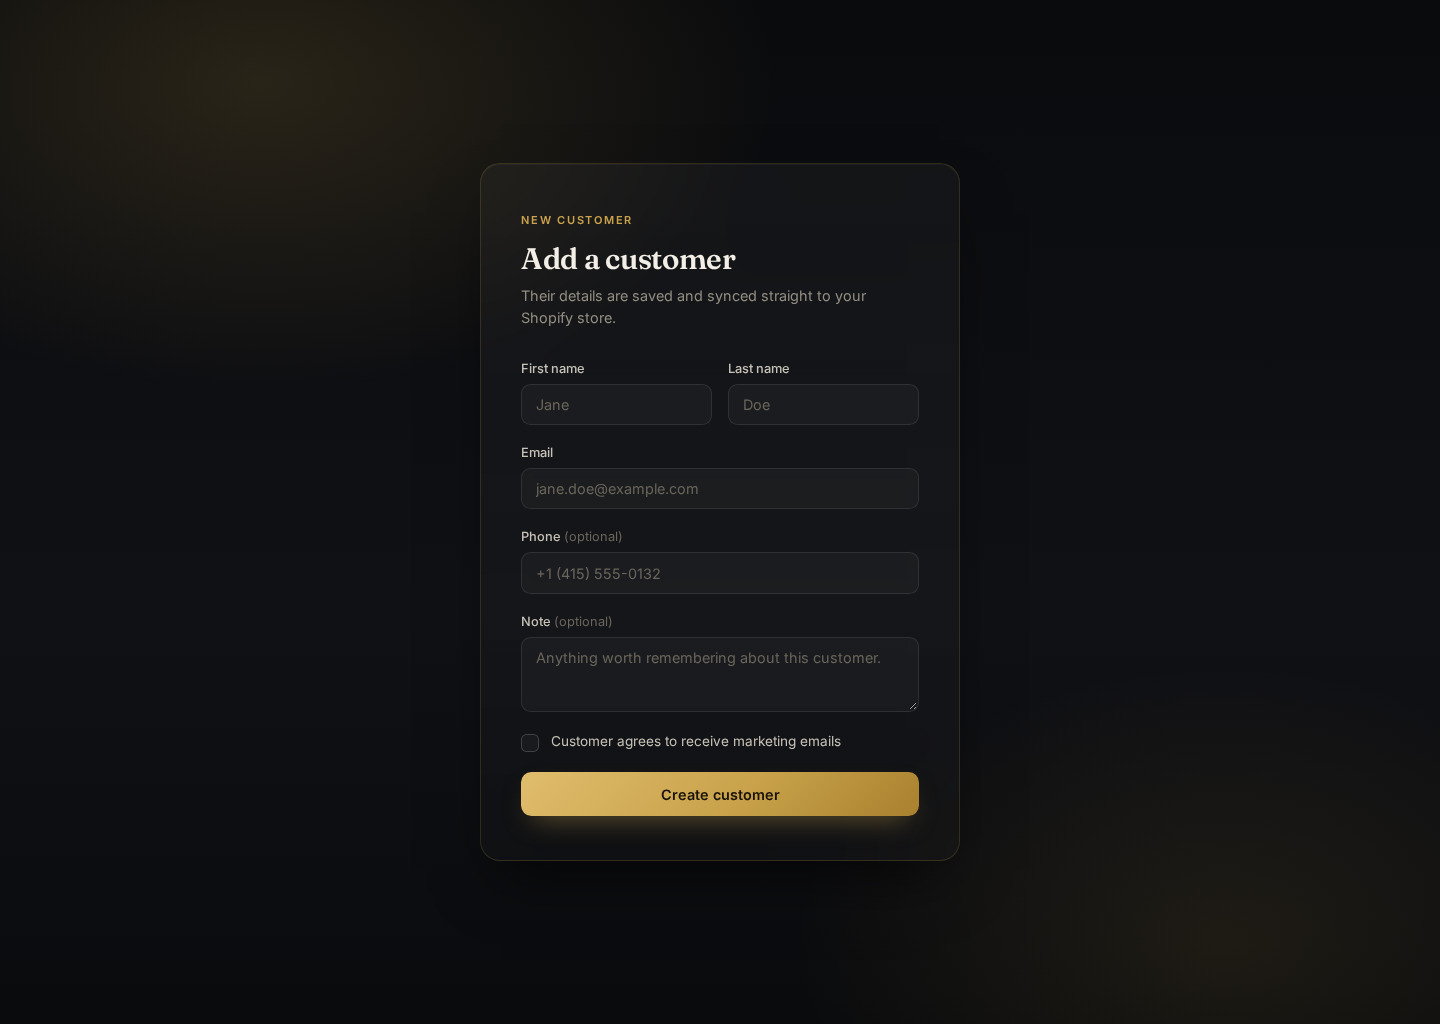
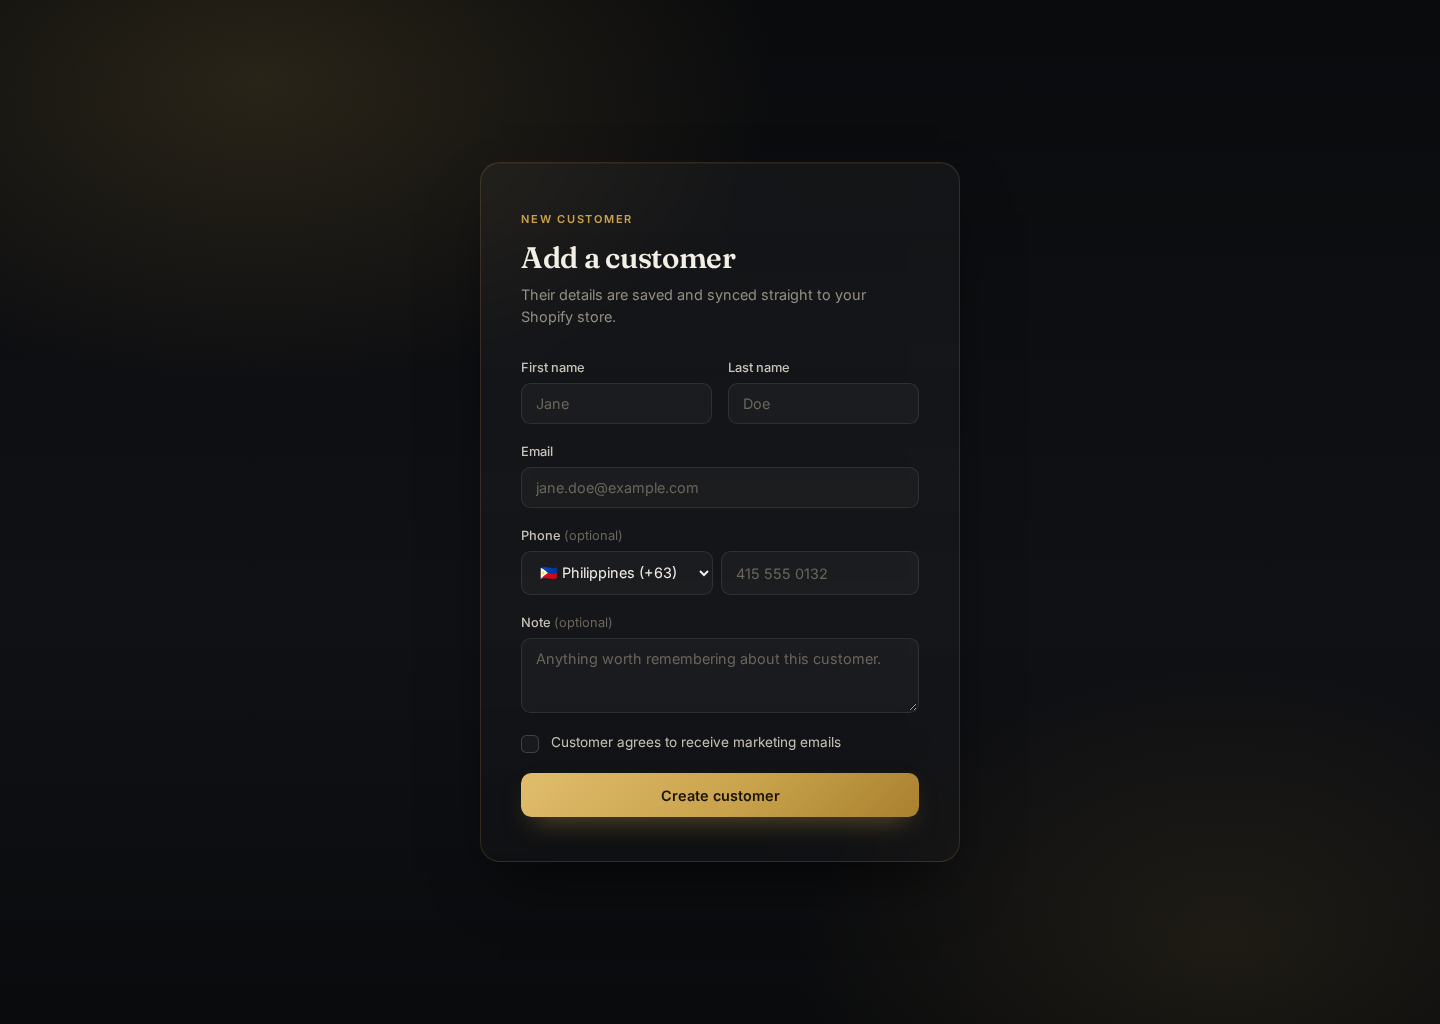
docs: refresh README screenshot to show the country code selector
The previous form.png predated the dial-code dropdown, so it no longer
matched the actual UI. Also widened the dropdown slightly so the
country name and code aren't clipped.

diff --git a/frontend/src/app/features/customer-form/customer-form.component.scss b/frontend/src/app/features/customer-form/customer-form.component.scss
@@ -139,7 +139,7 @@ textarea {
   &__code {
     flex: 0 0 auto;
     width: auto;
-    max-width: 9.5rem;
+    max-width: 12rem;
   }
 
   input {
